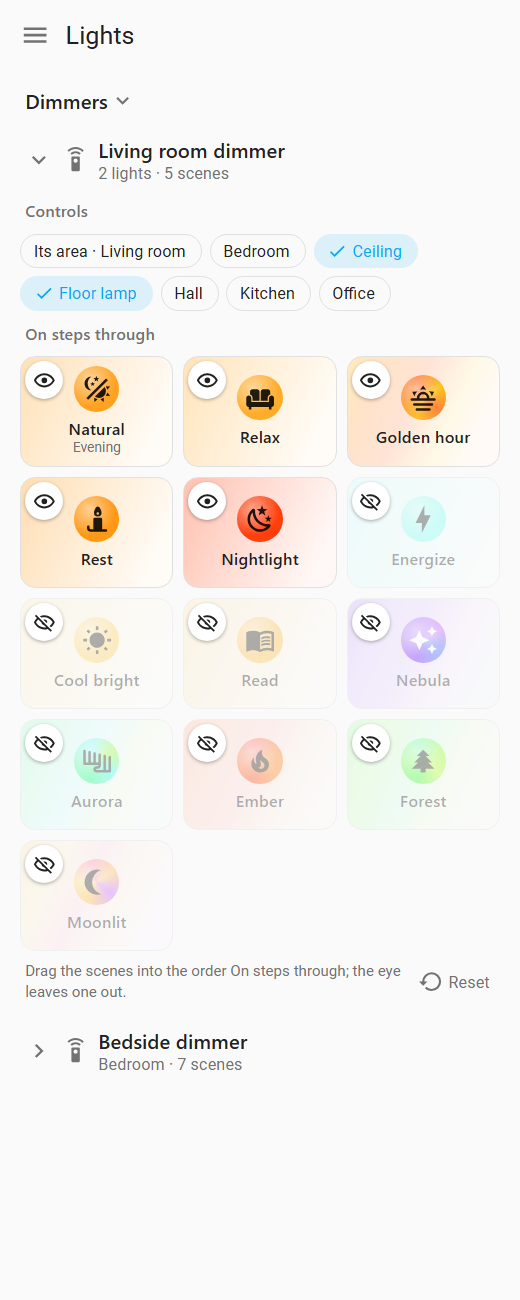
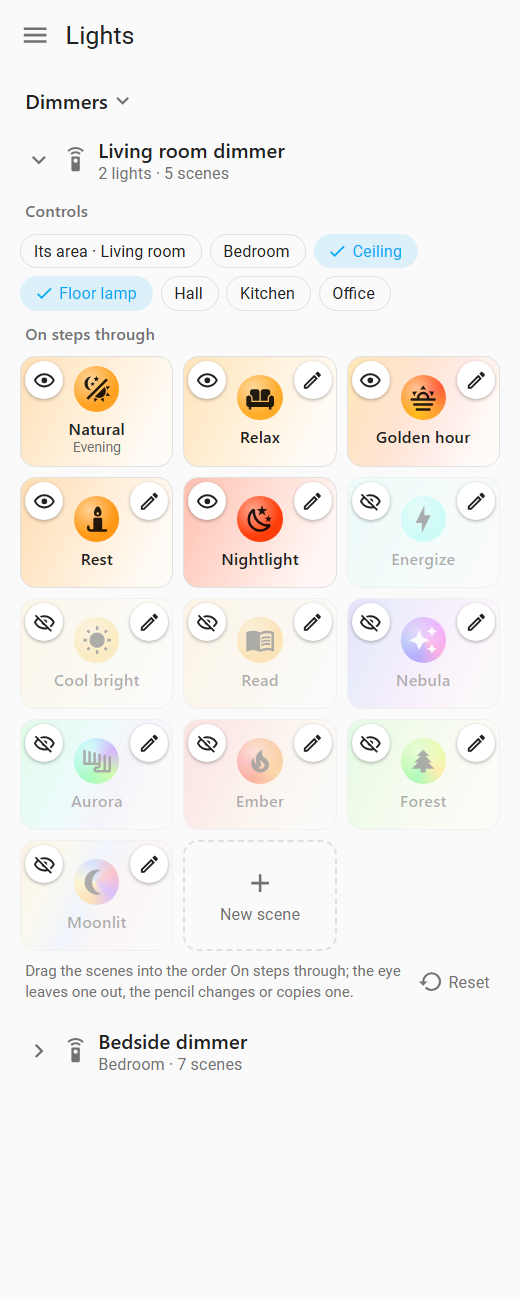
More vivid colour scenes, each drifting at its own pace
Golden hour gains coral, Nebula is brighter with magenta and hot pink,
Aurora has a violet fringe, Ember has more contrast between its glow and
its flare, Forest has golden sunlight, and Moonlit a pale moon blue. Each
drifts at its own pace: Ember every minute, Nebula and Aurora every 2,
Golden hour and Forest every 3, Moonlit every 4.

A test checks that every built-in colour is inside Hue's gamut (one of
Aurora's greens wasn't). The README screenshots show the new colours and
2.0's pencils and + tile.

diff --git a/custom_components/hue_lite/frontend/hue-lite.js b/custom_components/hue_lite/frontend/hue-lite.js
@@ -288,7 +288,7 @@
     return [
       `**Natural light** is a scene that follows the sun: Energize from dawn, Energize to Cool bright through the morning, Cool bright from midday, Cool bright to Relax over the last 90 minutes before sunset, Relax to Rest after sunset, and Rest overnight (lights labelled *${label("nightlight")}*: Nightlight). Lights stay in it until you pick another scene, change them yourself or from an automation, or use one of your own scenes on them.`,
       "",
-      "**Colour scenes**: Golden hour, Nebula, Aurora, Ember, Forest and Moonlit spread their colours across a room's colour bulbs, each at its own brightness, and drift slowly between them, a step every three minutes.",
+      "**Colour scenes**: Golden hour, Nebula, Aurora, Ember, Forest and Moonlit spread their colours across a room's colour bulbs, each at its own brightness, and drift between them at their own pace: a step every minute for Ember, every two for Nebula and Aurora, every three for Golden hour and Forest, and every four for Moonlit.",
       "",
       "**Your own scenes**: Edit scenes under any room's scenes, then the + tile at the end, makes one: one colour (static) or up to eight, each at its own brightness, drifting at their own speed. Try on the lights shows the colours on the room's lights as you pick them. The pencil on a tile changes one of yours, or starts a copy of a built-in scene. A new scene shows in the room it was made in and on its dimmers; elsewhere Edit scenes shows it.",
       "",
@@ -1716,7 +1716,7 @@
       const set = new SceneSet(this, this._config.scenes, {
         save: (scenes) => setDimmer(this._hass, d.id, { scenes }),
         editor: (config) => openSceneEditor(this._hass, config, { layouts: [], dimmers: [d.id] }),
-        hint: "Drag the scenes into the order On steps through; the eye leaves one out.",
+        hint: "Drag the scenes into the order On steps through; the eye leaves one out, the pencil changes or copies one.",
         resetTitle: "Back to Natural light and the presets",
       });
       body.appendChild(set.grid);

diff --git a/tests/harness/index.html b/tests/harness/index.html
@@ -159,12 +159,12 @@
         relax: { rgb_colors: [[255, 189, 86]] },
         rest: { rgb_colors: [[255, 161, 40]] },
         nightlight: { rgb_colors: [[255, 71, 22]] },
-        golden_hour: { rgb_colors: [[255, 205, 90], [255, 167, 90], [255, 130, 68], [255, 200, 48], [255, 171, 121]] },
-        aurora: { rgb_colors: [[20, 255, 126], [110, 255, 185], [109, 250, 255], [162, 255, 69], [110, 255, 238]] },
-        ember: { rgb_colors: [[255, 71, 8], [255, 96, 27], [255, 66, 50], [255, 123, 27], [255, 139, 39]] },
-        forest: { rgb_colors: [[83, 255, 73], [121, 255, 81], [75, 255, 140], [157, 255, 76], [194, 255, 80]] },
-        moonlit: { rgb_colors: [[255, 206, 118], [255, 236, 186], [255, 182, 203], [255, 214, 146], [232, 193, 255]] },
-        nebula: { rgb_colors: [[108, 21, 255], [179, 127, 255], [151, 80, 255], [222, 168, 255], [88, 135, 255]] },
+        golden_hour: { rgb_colors: [[255, 195, 54], [255, 161, 53], [255, 127, 42], [255, 127, 100], [255, 183, 111]], brightness: [85, 70, 60, 50, 90] },
+        aurora: { rgb_colors: [[45, 255, 93], [61, 255, 192], [84, 241, 255], [166, 87, 255], [159, 255, 84]], brightness: [65, 55, 50, 40, 70] },
+        ember: { rgb_colors: [[255, 60, 11], [255, 66, 63], [255, 109, 31], [255, 139, 39], [255, 165, 53]], brightness: [25, 30, 45, 75, 60] },
+        forest: { rgb_colors: [[77, 255, 102], [129, 255, 83], [177, 255, 97], [215, 255, 78], [255, 225, 82]], brightness: [35, 50, 40, 60, 70] },
+        moonlit: { rgb_colors: [[255, 206, 118], [255, 249, 219], [193, 213, 255], [255, 180, 186], [209, 170, 255]], brightness: [30, 35, 22, 25, 18] },
+        nebula: { rgb_colors: [[80, 59, 255], [103, 130, 255], [153, 59, 255], [233, 87, 255], [255, 85, 200]], brightness: [25, 35, 30, 40, 45] },
       },
       dimmers: [{ id: "dimmer_living", name: "Living room dimmer", area_id: "living_room" }],
       add_dashboard: true,

diff --git a/custom_components/hue_lite/timeline.py b/custom_components/hue_lite/timeline.py
@@ -98,40 +98,53 @@ def palette_from_stored(scene: dict[str, Any]) -> Palette:
     return Palette(colours, Light(brightness, colours[0][:2], kelvin), scene["drift_minutes"])
 
 
-# Hue-Lite's colour scenes, from colours in Hue's scene library: Golden hour's
-# from Savanna sunset, Golden pond and Amber bloom; Nebula's from Nebula,
-# Tropical twilight and Moonlight; Aurora's greens from Arctic aurora, Blue
-# Planet and Forest adventure. Each colour is (x, y, brightness %).
+# Hue-Lite's colour scenes. Each colour is (x, y, brightness %), inside Hue's
+# gamut C. Each scene mixes a few hues at different brightnesses, so a room's
+# bulbs differ, and drifts at its own pace: the lively ones faster, the calm
+# ones slower. Golden hour, Nebula and Aurora started from colours in Hue's
+# scene library (Savanna sunset, Golden pond and Amber bloom; Nebula,
+# Tropical twilight and Moonlight; Arctic aurora, Blue planet and Forest
+# adventure), made more vivid.
 PALETTES: dict[str, Palette] = {
+    # A sunset: gold, amber and deep orange, with coral and a bright peach glow.
     "golden_hour": Palette(
-        ((0.4801, 0.4309, 75), (0.5246, 0.3864, 65), (0.5862, 0.3575, 55), (0.5063, 0.4474, 80), (0.4934, 0.3675, 65)),
+        ((0.5100, 0.4400, 85), (0.5550, 0.4000, 70), (0.6050, 0.3650, 60), (0.5600, 0.3350, 50), (0.4900, 0.3900, 90)),
         Light(70, (0.4801, 0.4309), 2500),
+        drift_minutes=3,
     ),
+    # Deep space: blue, periwinkle and violet, with magenta and hot pink.
     "nebula": Palette(
-        ((0.1911, 0.0673, 16), (0.2712, 0.1723, 24), (0.2412, 0.1171, 20), (0.3161, 0.2306, 26), (0.1725, 0.1532, 14)),
-        Light(15, (0.561, 0.4042), 2000),
+        ((0.1650, 0.0700, 25), (0.1850, 0.1500, 35), (0.2450, 0.1050, 30), (0.3500, 0.1650, 40), (0.4500, 0.2150, 45)),
+        Light(25, (0.561, 0.4042), 2000),
+        drift_minutes=2,
     ),
+    # Northern lights: green, teal and cyan, with a violet fringe and a
+    # yellow-green flare, shimmering.
     "aurora": Palette(
-        ((0.1672, 0.593, 55), (0.2072, 0.4525, 45), (0.1868, 0.3328, 40), (0.3095, 0.5913, 60), (0.1915, 0.3638, 45)),
+        ((0.1800, 0.6500, 65), (0.1720, 0.4500, 55), (0.1720, 0.3200, 50), (0.2600, 0.1300, 40), (0.3000, 0.5800, 70)),
         Light(50, (0.3812, 0.3794), 4000),
+        drift_minutes=2,
     ),
-    # Firelight: deep reds and crimson, with a little orange; redder and
-    # darker than Golden hour. The reds glow low, the oranges flare brighter.
+    # Firelight: deep reds glowing low, orange and amber flaring brighter,
+    # flickering on every minute.
     "ember": Palette(
-        ((0.6726, 0.3218, 35), (0.6450, 0.3390, 45), (0.6600, 0.3100, 30), (0.6150, 0.3650, 55), (0.5900, 0.3800, 50)),
+        ((0.6800, 0.3150, 25), (0.6500, 0.3050, 30), (0.6300, 0.3500, 45), (0.5900, 0.3800, 75), (0.5500, 0.4050, 60)),
         Light(35, (0.6150, 0.3650), 2000),
+        drift_minutes=1,
     ),
-    # Deep greens, emerald to moss, with a hint of yellow-green; darker than
-    # Aurora's teals.
+    # Woodland: emerald and leaf greens, moss and lime, with golden sunlight
+    # coming through.
     "forest": Palette(
-        ((0.2100, 0.6600, 35), (0.2500, 0.6200, 45), (0.1900, 0.5500, 30), (0.3000, 0.5900, 50), (0.3500, 0.5500, 40)),
+        ((0.2000, 0.6200, 35), (0.2600, 0.6100, 50), (0.3200, 0.5500, 40), (0.3800, 0.5300, 60), (0.4600, 0.4600, 70)),
         Light(30, (0.4599, 0.4106), 2700),
+        drift_minutes=3,
     ),
-    # Mostly dim whites, warm and soft, with blush and lavender drifting
-    # through, dimmer than the whites.
+    # Night: dim warm and cool whites, a pale moon blue, blush and lavender,
+    # slow and calm.
     "moonlit": Palette(
-        ((0.4599, 0.4106, 30), (0.3812, 0.3794, 28), (0.4000, 0.3000, 18), (0.4300, 0.3950, 30), (0.3200, 0.2600, 15)),
+        ((0.4599, 0.4106, 30), (0.3500, 0.3600, 35), (0.2700, 0.2800, 22), (0.4200, 0.3150, 25), (0.3000, 0.2300, 18)),
         Light(25, (0.4599, 0.4106), 2700),
+        drift_minutes=4,
     ),
 }
 

diff --git a/tests/test_timeline.py b/tests/test_timeline.py
@@ -1,5 +1,5 @@
-"""The timelines (Natural light and the evening routine), the presets and
-the dimmer's cycle."""
+"""The timelines (Natural light and the evening routine), the presets, the
+colour scenes and the dimmer's cycle."""
 
 from __future__ import annotations
 
@@ -7,7 +7,11 @@ from datetime import datetime
 
 import pytest
 
+from homeassistant.util.color import check_point_in_lamps_reach
+
+from custom_components.hue_lite.dashboard import HUE_GAMUT
 from custom_components.hue_lite.timeline import (
+    PALETTES,
     PRESETS,
     EveningSettings,
     Light,
@@ -97,6 +101,16 @@ def test_white_bulbs_get_their_own_colour_temperature() -> None:
     assert PRESETS["nightlight"].white_data() == {"brightness_pct": 1, "color_temp_kelvin": 2000}
     # Blends blend the colour temperature too: halfway through the morning.
     assert natural_light(at("09:45"), SUN).light.kelvin == round((6410 + 4000) / 2)
+
+
+def test_colour_scenes_are_colours_hue_bulbs_show() -> None:
+    """Every built-in colour scene's colours are inside Hue's gamut C (so
+    bulbs show them as meant), at 1-100%, and it drifts every 1-60 minutes,
+    as your own scenes must."""
+    for scene, palette in PALETTES.items():
+        assert 1 <= palette.drift_minutes <= 60, scene
+        for x, y, brightness in palette.colours:
+            assert check_point_in_lamps_reach((x, y), HUE_GAMUT) and 1 <= brightness <= 100, (scene, x, y)
 
 
 def test_noticeable() -> None:

diff --git a/tests/test_setup.py b/tests/test_setup.py
@@ -169,7 +169,7 @@ async def test_dashboard_script_and_config(hass: HomeAssistant, home: Home, entr
     # With their brightness, for a copy made in the scene editor.
     assert config["presets"]["relax"] == {"rgb_colors": [[255, 189, 86]], "brightness": [56]}
     assert len(config["presets"]["nebula"]["rgb_colors"]) == len(config["presets"]["nebula"]["brightness"]) == 5
-    assert config["presets"]["aurora"]["rgb_colors"][0] == [20, 255, 126]
+    assert config["presets"]["aurora"]["rgb_colors"][0] == [45, 255, 93]
 
     # The script is on every page (versioned by content) while Hue-Lite is set up.
     scripts = hass.data[DATA_EXTRA_MODULE_URL]

diff --git a/README.md b/README.md
@@ -16,9 +16,9 @@ Hue Bridge.** Hue-Lite gives you:
 
 Lights join in by **area** and **label**, with no YAML for each light.
 
-| ![Editing a room's scenes: drag to reorder, the eye hides one](docs/images/edit-scenes.png) | ![The routines: wake up, the evening routine, and coming and going](docs/images/routines.png) | ![A dimmer's lights and the scenes its On button steps through](docs/images/dimmers.png) |
+| ![Editing a room's scenes: drag to reorder, the eye hides one, the pencil changes one, + makes one](docs/images/edit-scenes.png) | ![The routines: wake up, the evening routine, and coming and going](docs/images/routines.png) | ![A dimmer's lights and the scenes its On button steps through](docs/images/dimmers.png) |
 | :---: | :---: | :---: |
-| Each light's scenes: drag into order, the eye hides one | Wake up, evening, coming & going | Each Hue dimmer's lights and scenes |
+| Each room's scenes: reorder, hide, change or add your own | Wake up, evening, coming & going | Each Hue dimmer's lights and scenes |
 
 <sub>The screenshots show the Lights dashboard with sample lights.</sub>
 
@@ -37,8 +37,8 @@ Lights join in by **area** and **label**, with no YAML for each light.
 - **Natural light.** One scene that follows the sun: bright and cool in the
   morning, warm in the evening, Rest at night.
 - **Colour scenes.** Golden hour, Nebula, Aurora, Ember, Forest and Moonlit.
-  Each spreads its colours across a room's bulbs and drifts slowly between
-  them.
+  Each spreads its colours across a room's bulbs and drifts between them at
+  its own pace.
 - **Your own scenes.** One colour, or up to eight that drift at their own
   speed, each at its own brightness. Start from scratch or from any built-in
   scene.
@@ -175,11 +175,19 @@ on the Hue-Lite device page instead.
 - **Scenes.** Colour bulbs get Hue's colours, white bulbs a colour
   temperature, and dimmable bulbs just the brightness.
 - **Colour scenes.**
-  - Golden hour, Nebula and Aurora use colours from Hue's own scenes.
-  - Ember is deep reds, like firelight. Forest is deep greens. Moonlit is dim
-    whites with a touch of colour.
+
+  | Scene | Colours | A step every |
+  | ----- | ------- | ------------ |
+  | Golden hour | A sunset: gold, amber and deep orange, with coral | 3 minutes |
+  | Nebula | Deep blue, periwinkle and violet, with magenta and pink | 2 minutes |
+  | Aurora | Green, teal and cyan, with a violet fringe | 2 minutes |
+  | Ember | Firelight: deep reds glowing low, orange flaring brighter | minute |
+  | Forest | Emerald, leaf green and lime, with golden sunlight | 3 minutes |
+  | Moonlit | Dim whites, with pale blue, blush and lavender | 4 minutes |
+
+  - Golden hour, Nebula and Aurora started from colours in Hue's own scenes.
   - A room's colour bulbs show different colours from the scene, each at its
-    own brightness, and drift to the next every three minutes. White bulbs
+    own brightness, and drift to the next at the scene's pace. White bulbs
     get a matching white.
   - Your own dynamic scenes work the same way, at their own speed.
 - **Natural light** follows the sun:
